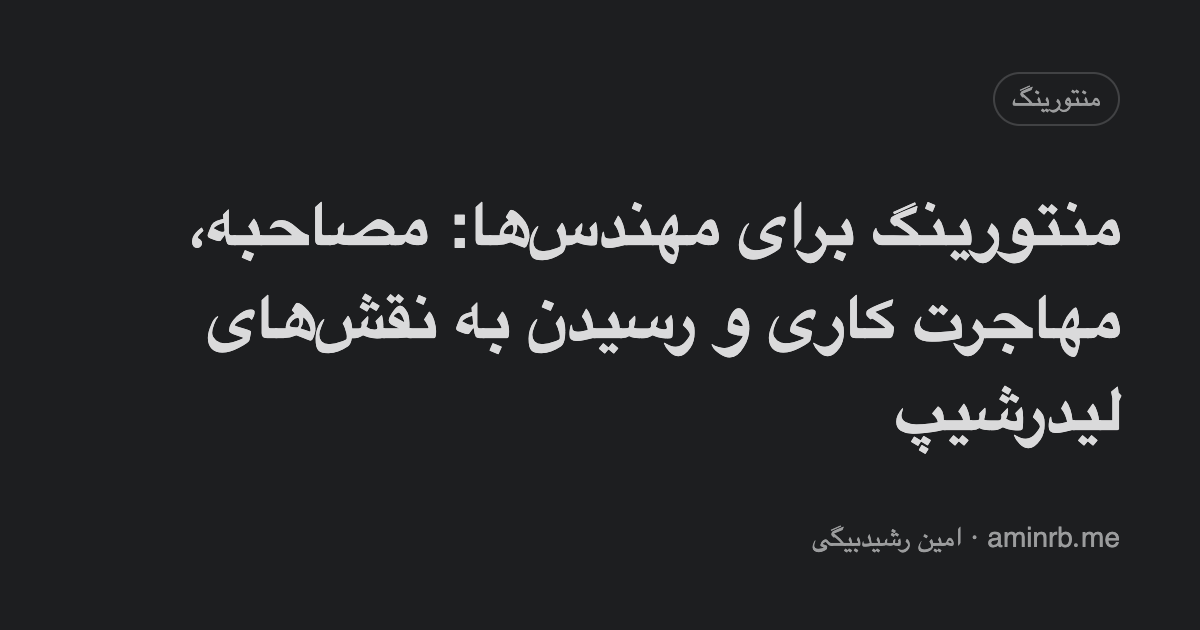
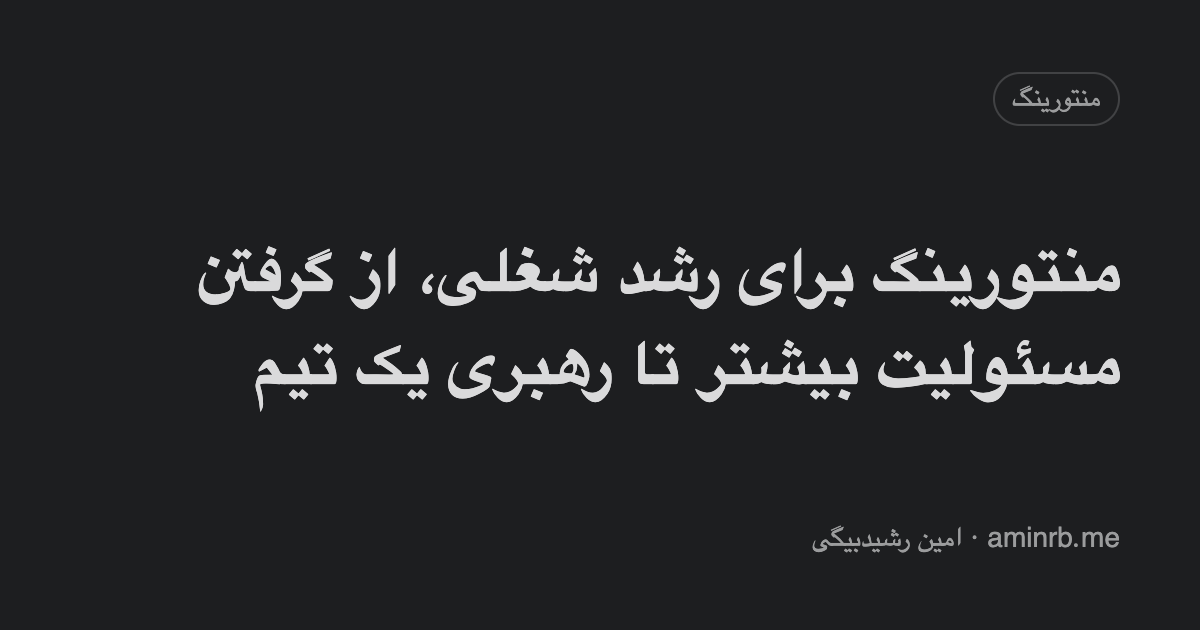
Mentoring as career development; drop the track label on talks
The mentoring page, its description and preview image, and the About
line now frame mentoring as career growth: more responsibility, working
with your manager, moving into management, growing a team, working
abroad and interview preparation. Table talk pages no longer show the
track label.

Changed region(s): [[0.1542, 0.3016, 0.9558, 0.7238]]

diff --git a/layouts/table-talks/single.html b/layouts/table-talks/single.html
@@ -2,7 +2,6 @@
 {{- $done := eq .Params.status "done" }}
 <article class="post-single talk">
   <header class="post-header">
-    <span class="label">{{ i18n (printf "track_%s" .Params.track) }}</span>
     <h1 class="post-title">{{ .Title }}</h1>
     <div class="post-meta">
       {{- partial "author.html" . }}

diff --git a/content/mentoring/index.fa.md b/content/mentoring/index.fa.md
@@ -1,6 +1,6 @@
 ---
 title: منتورینگ
-description: "منتورینگ یکبهیک برای مهندسهای نرمافزار: مصاحبه با شرکتهای اروپایی، مهاجرت کاری و رسیدن به نقشهای لید فنی و مدیریت. با یک جلسهٔ آشنایی رایگان شروع کن."
+description: "منتورینگ یکبهیک برای رشد شغلی: گرفتن مسئولیت بیشتر، کار با مدیرت، رفتن به سمت مدیریت، کار در کشورهای دیگه و آمادگی برای مصاحبه. با یک جلسهٔ آشنایی رایگان شروع کن."
 cover:
   image: /og/mentoring-fa.png
   hidden: true
@@ -15,13 +15,15 @@ aliases:
 - /fa/ways-i-help/
 ---
 
-من به صورت یکبهیک و به فارسی یا انگلیسی با مهندسهای نرمافزار جلسهٔ منتورینگ دارم. تجربهٔ مصاحبه و استخدام مهندسها رو دارم، در دیوار لید فنی و بعد مدیر مهندسی (Engineering Manager) بودم، به آلمان مهاجرت کردم و دوباره به کار فنی برگشتم. توی جلسهها از همهٔ این تجربهها استفاده میکنم.
+منتورینگ برای من یعنی کمک به رشد شغلی. توی این سالها مهندس، لید فنی و مدیر مهندسی (Engineering Manager) بودم، مصاحبه و استخدام کردم و در ایران و آلمان کار کردم. توی جلسهها از همهٔ این تجربهها استفاده میکنم تا با هم قدم بعدی مسیر شغلیت رو پیدا کنیم. جلسهها یکبهیک و به فارسی یا انگلیسی هستن.
 
 ## برای چه کسانی؟
 
-- **مهندسهای فارسیزبانی که هدفشون کار در شرکتهای اروپاییه.** بررسی رزومه و نمونهکار، انتخاب شرکتهای مقصد و مصاحبهٔ آزمایشی: ریکروتر، فنی، طراحی سیستم و رفتاری.
-- **مهندسهای سینیوری که دارن وارد نقش لید فنی یا مدیر میشن.** اینکه در ماههای اول چه چیزهایی تغییر میکنه، چطور رهبری کنی و مهارت فنیت رو از دست ندی، و اینکه اصلاً این مسیر برای تو مناسبه یا نه.
-- **مهندسهایی که مهاجرت کردن و حس میکنن متوقف شدن.** رشد در فرهنگی که فرهنگ خودت نیست، ارتقای شغلی، و تصمیم بین موندن و رفتن.
+- **میخوای رشد کنی و مسئولیت بیشتری بگیری** و دنبال یک برنامهٔ مشخص برای رسیدن بهش هستی.
+- **کار کردن با مدیرت سخت شده** و میخوای ببینی چطور میشه بهترش کرد.
+- **به مدیر شدن فکر میکنی**، یا الان مدیری و میخوای تیمت رو رشد بدی.
+- **توی کشور دیگهای کار میکنی یا میخوای کار کنی** و دوست داری با کسی صحبت کنی که این مسیر رو رفته.
+- **داری برای مصاحبه آماده میشی**: بررسی رزومه، انتخاب شرکتها و مصاحبهٔ آزمایشی (ریکروتر، فنی، طراحی سیستم و رفتاری).
 
 ## خدمات
 

diff --git a/content/mentoring/index.md b/content/mentoring/index.md
@@ -1,6 +1,6 @@
 ---
 title: Mentoring
-description: "One-to-one mentoring for software engineers: interviews at European companies, relocation, and the step into tech lead and manager roles. Start with a free intro call."
+description: "One-to-one mentoring for career growth: taking on more responsibility, working with your manager, moving into management, working abroad and preparing for interviews. Start with a free intro call."
 cover:
   image: /og/mentoring.png
   hidden: true
@@ -14,13 +14,15 @@ aliases:
 - /ways-i-can-help/
 ---
 
-I mentor software engineers one to one, in Persian or English. I have hired and interviewed engineers, led a team as tech lead and Engineering Manager at Divar, moved to Germany and went back to hands-on engineering. Sessions draw on all of that.
+Mentoring, for me, is about career growth. Over the years I have been an engineer, a tech lead and an Engineering Manager, interviewed and hired people, and worked in Iran and Germany. In our sessions I draw on all of that to help you work out your next step. Sessions are one to one, in Persian or English.
 
 ## Who it is for
 
-- **Persian-speaking engineers aiming at European companies.** Resume and portfolio review, choosing where to apply, and mock interviews: recruiter, technical, system design and behavioural.
-- **Senior engineers stepping into tech lead or manager roles.** What changes in the first months, how to lead without losing your technical edge, and whether the move is right for you.
-- **Engineers already abroad who feel stuck.** Growth in a culture that is not your own, promotions, and deciding when to stay and when to move on.
+- **You want to grow and take on more responsibility**, and you want a clear plan for getting there.
+- **Working with your manager has become hard**, and you want to find a way to make it better.
+- **You are thinking about becoming a manager**, or you already are one and want to grow your team.
+- **You work in another country, or want to**, and want to talk to someone who has made that move.
+- **You are preparing for interviews**: resume review, choosing where to apply, and mock interviews (recruiter, technical, system design and behavioural).
 
 ## Offers
 

diff --git a/content/about/index.fa.md b/content/about/index.fa.md
@@ -34,7 +34,7 @@ ShowToc: false
 
 - **نوشتن**، همینجا و در [کانال تلگرامم](https://t.me/aminrbg).
 - **[میزگرد](/fa/table-talks/)**: گفتوگوهای آنلاین و رایگان که هشت نفر یک ساعت دربارهٔ یک سؤال صحبت میکنن.
-- **[منتورینگ](/fa/mentoring/)** برای مهندسهایی که روی مصاحبه، مهاجرت کاری و رسیدن به نقشهای لیدرشیپ کار میکنن.
+- **[منتورینگ](/fa/mentoring/)** برای کسایی که میخوان در مسیر شغلیشون رشد کنن، از گرفتن مسئولیت بیشتر تا رهبری یک تیم.
 
 ## سخنرانی و میزبانی
 

diff --git a/content/about/index.en.md b/content/about/index.en.md
@@ -34,7 +34,7 @@ When I moved to Germany, I chose to go back to hands-on engineering, first at CH
 
 - **Writing**, here and in my Persian [Telegram channel](https://t.me/aminrbg).
 - **[Table talks](/table-talks/)**: free online conversations where eight people discuss one question for an hour.
-- **[Mentoring](/mentoring/)** for engineers working on interviews, relocation and the step into leadership.
+- **[Mentoring](/mentoring/)** for people who want to grow in their careers, from taking on more responsibility to leading a team.
 
 ## Speaking and hosting
 
